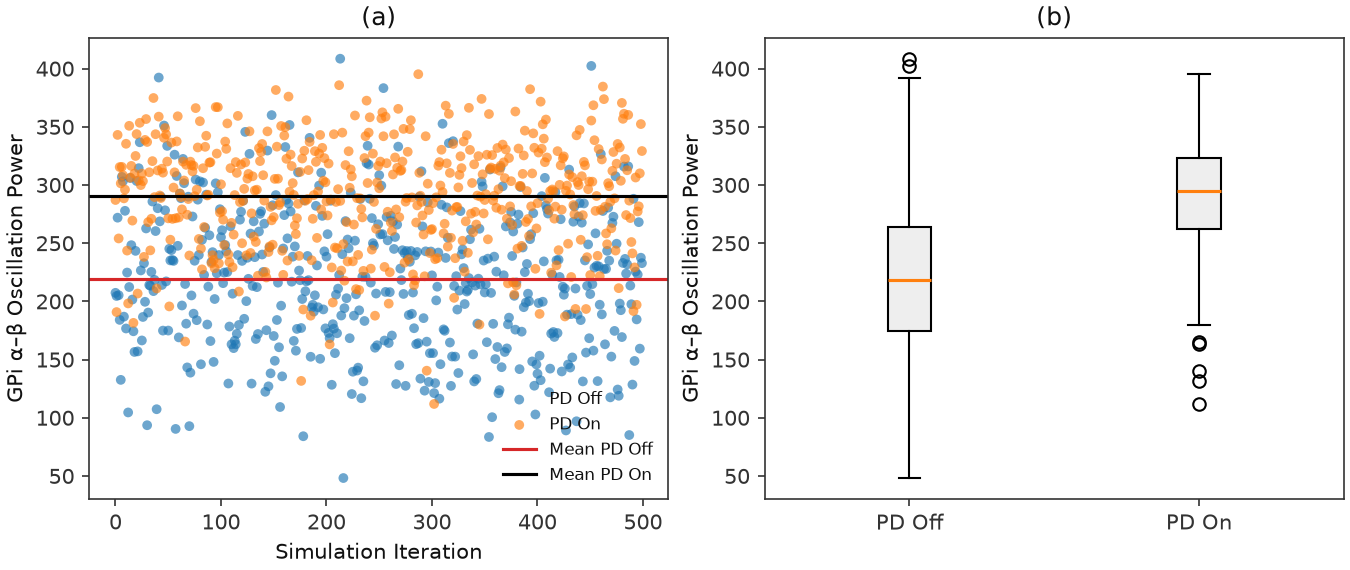
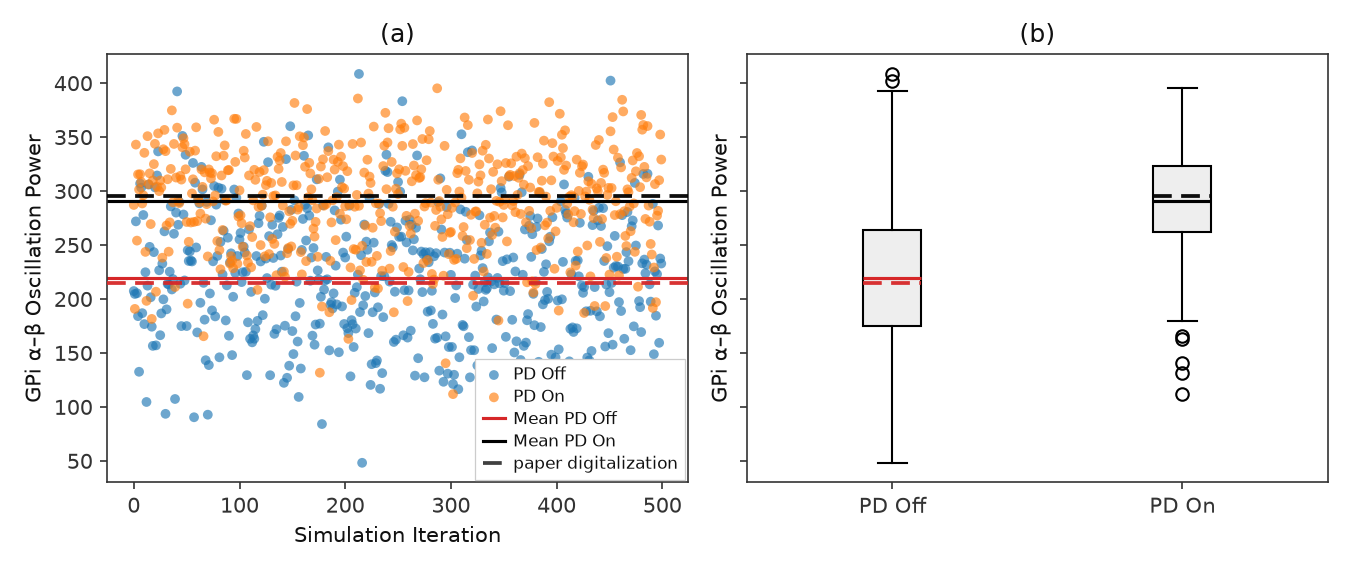
Bump Nguyen Fig 3 (P2F3) to rep v22 and sync ship assets.
Replotted from cached samples so tracker, manifest, ship PNG, and Report 3 gallery match the v21 cosmetic styling (slim boxes, aligned means).

diff --git a/figures/nguyen/replications.md b/figures/nguyen/replications.md
@@ -11,7 +11,7 @@ Figs **1–2** are schematics — **not** replication targets.
 <!-- summary:start -->
 | Panel | Description | Status |
 |-------|-------------|--------|
-| Fig 3 | GPi α–β distribution (PD Off vs PD On) | Pass (rep v21) |
+| Fig 3 | GPi α–β distribution (PD Off vs PD On) | Pass (rep v22) |
 | Fig 4 | Training reward + episode length | Fail (`reward shape:reward_post100_plateau`) |
 | Fig 5 | CBGT spikes + DBS energy over training | Fail (`shared_train`) |
 | Fig 6 | α–β + DBS parameters over training | Fail (`shared_train`) |
@@ -30,18 +30,18 @@ Distribution of GPi **α–β** oscillation power (**7–35 Hz**) for **PD On** 
 
 ### Replication
 
-![Replication Fig 3](images/3/alpha_beta_dist_v10.png)
+![Replication Fig 3](images/3/alpha_beta_dist_v22.png)
 
 <!-- caption-3:start -->
-**Caption:** GPi α–β (7–35 Hz), 500 iters × 0.1 s; PD On mean=290.8, PD Off mean=219.5, PD On Q1=262.3; ordering_pass=True (v10)
+**Caption:** GPi α–β (7–35 Hz), 500 iters × 0.1 s; PD On mean=290.8, PD Off mean=219.5, PD On Q1=262.3; ordering_pass=True (v22)
 
 **Manifest:** `artifacts/figures/papers/nguyen/3/manifest.json`
 <!-- caption-3:end -->
 
-**Status:** Pass — 500 × 100 ms samples; see `alpha_beta_dist_v10.png`.
+**Status:** Pass — 500 × 100 ms samples; see `alpha_beta_dist_v22.png`.
 
 <!-- gates-3:start -->
-**Gates set** (`artifacts/figures/papers/nguyen/3/manifest.json`; overall **`pass`**: yes, 2026-08-10). Every row is required for exit.
+**Gates set** (`artifacts/figures/papers/nguyen/3/manifest.json`; overall **`pass`**: yes, 2026-08-11). Every row is required for exit.
 
 | Key | Description | Pass |
 |-----|-------------|------|
@@ -97,7 +97,7 @@ Episode **rewards** (a) and **lengths** (b) over **500** training episodes. Init
 **Status:** Timing shape open — latest **v38** (`late_len=8.9`, `shape_pass=False`); see manifest gates.
 
 <!-- gates-4:start -->
-**Gates set** (`artifacts/figures/papers/nguyen/4/manifest.json`; **`shape_pass`**: no, **`pass`**: no, 2026-08-10). Phase 1: **`shape_pass`** (curve shape). Ship exit: **`pass`** (adds digitization polish). Both subplot groups required.
+**Gates set** (`artifacts/figures/papers/nguyen/4/manifest.json`; **`shape_pass`**: no, **`pass`**: no, 2026-08-11). Phase 1: **`shape_pass`** (curve shape). Ship exit: **`pass`** (adds digitization polish). Both subplot groups required.
 
 ### Reward (panel a) (`shape_pass`: no | `pass`: no)
 
@@ -160,7 +160,7 @@ Per-episode **CBGT spike counts** (a) and **DBS energy** (b, Eq. (6)) from the s
 **Status:** Open — see manifest gates (`spikes_energy_v5.png`).
 
 <!-- gates-5:start -->
-**Gates set** (`artifacts/figures/papers/nguyen/5/manifest.json`; overall **`pass`**: no, 2026-08-10). Every row is required for exit.
+**Gates set** (`artifacts/figures/papers/nguyen/5/manifest.json`; overall **`pass`**: no, 2026-08-11). Every row is required for exit.
 
 | Key | Description | Pass |
 |-----|-------------|------|
@@ -203,7 +203,7 @@ GPi **α–β** (a) and DBS amplitude / frequency / pulse width (b) over **500**
 **Status:** Open — see manifest gates (`alpha_beta_params_v2.png`).
 
 <!-- gates-6:start -->
-**Gates set** (`artifacts/figures/papers/nguyen/6/manifest.json`; overall **`pass`**: no, 2026-08-10). Every row is required for exit.
+**Gates set** (`artifacts/figures/papers/nguyen/6/manifest.json`; overall **`pass`**: no, 2026-08-11). Every row is required for exit.
 
 | Key | Description | Pass |
 |-----|-------------|------|
@@ -245,7 +245,7 @@ Seeded eval of the trained policy: **50** episodes × **25** steps, different se
 **Status:** Open — see manifest gates (`eval_50ep_v4.png`).
 
 <!-- gates-7:start -->
-**Gates set** (`artifacts/figures/papers/nguyen/7/manifest.json`; overall **`pass`**: no, 2026-08-10). Every row is required for exit.
+**Gates set** (`artifacts/figures/papers/nguyen/7/manifest.json`; overall **`pass`**: no, 2026-08-11). Every row is required for exit.
 
 | Key | Description | Pass |
 |-----|-------------|------|
